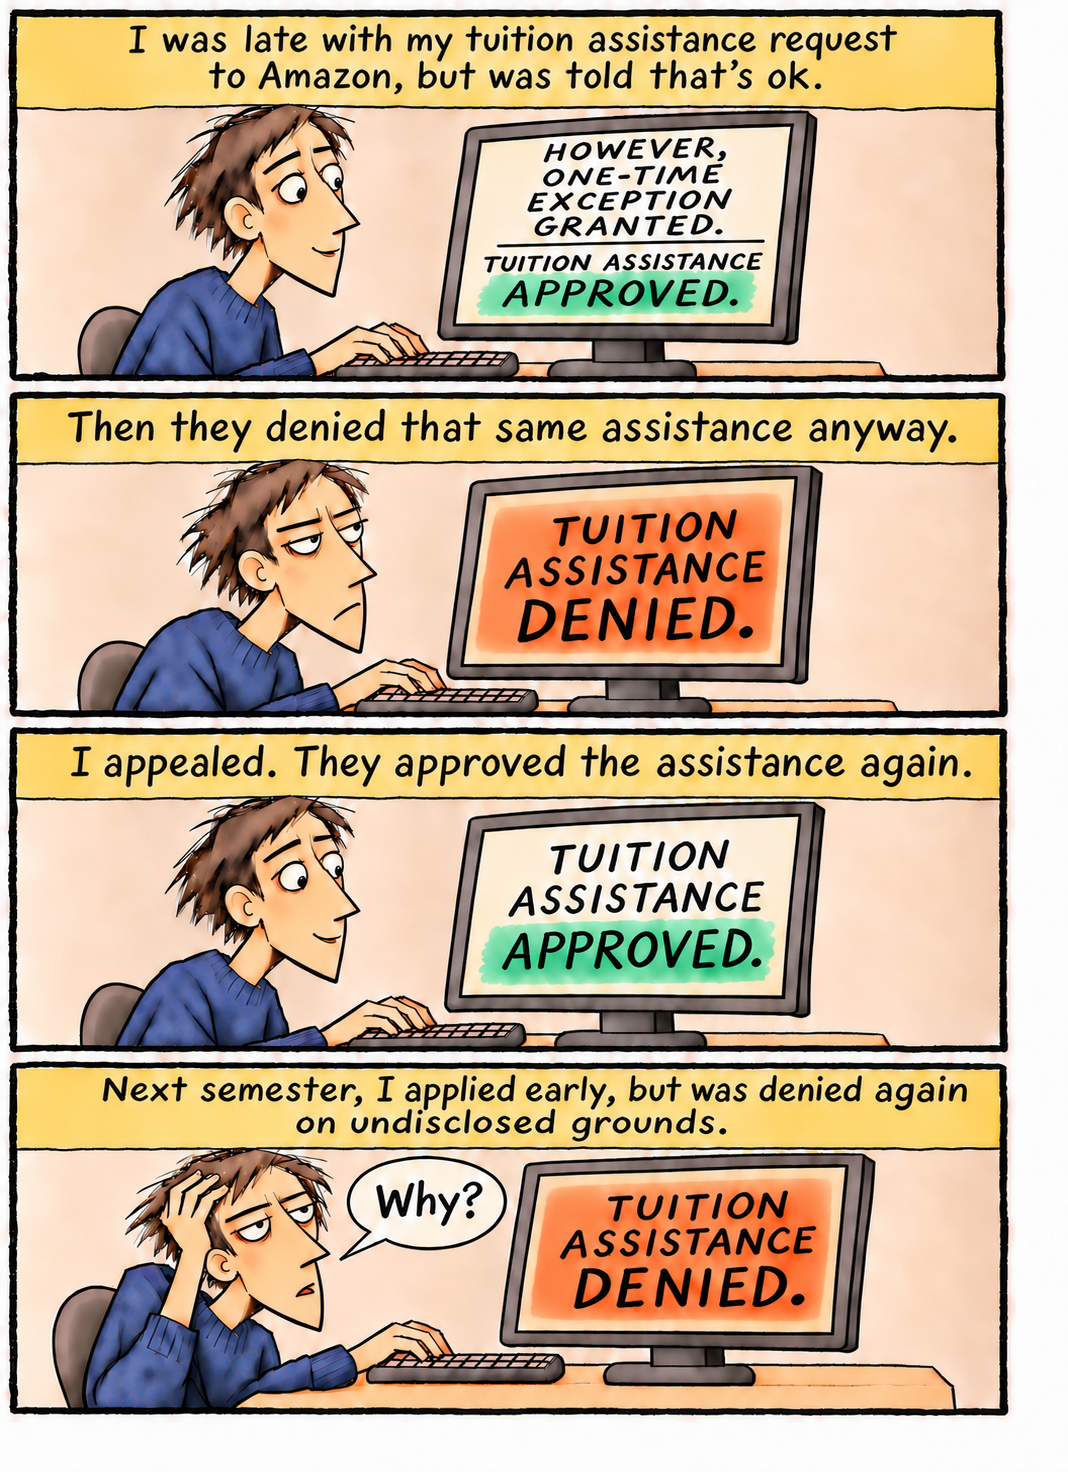
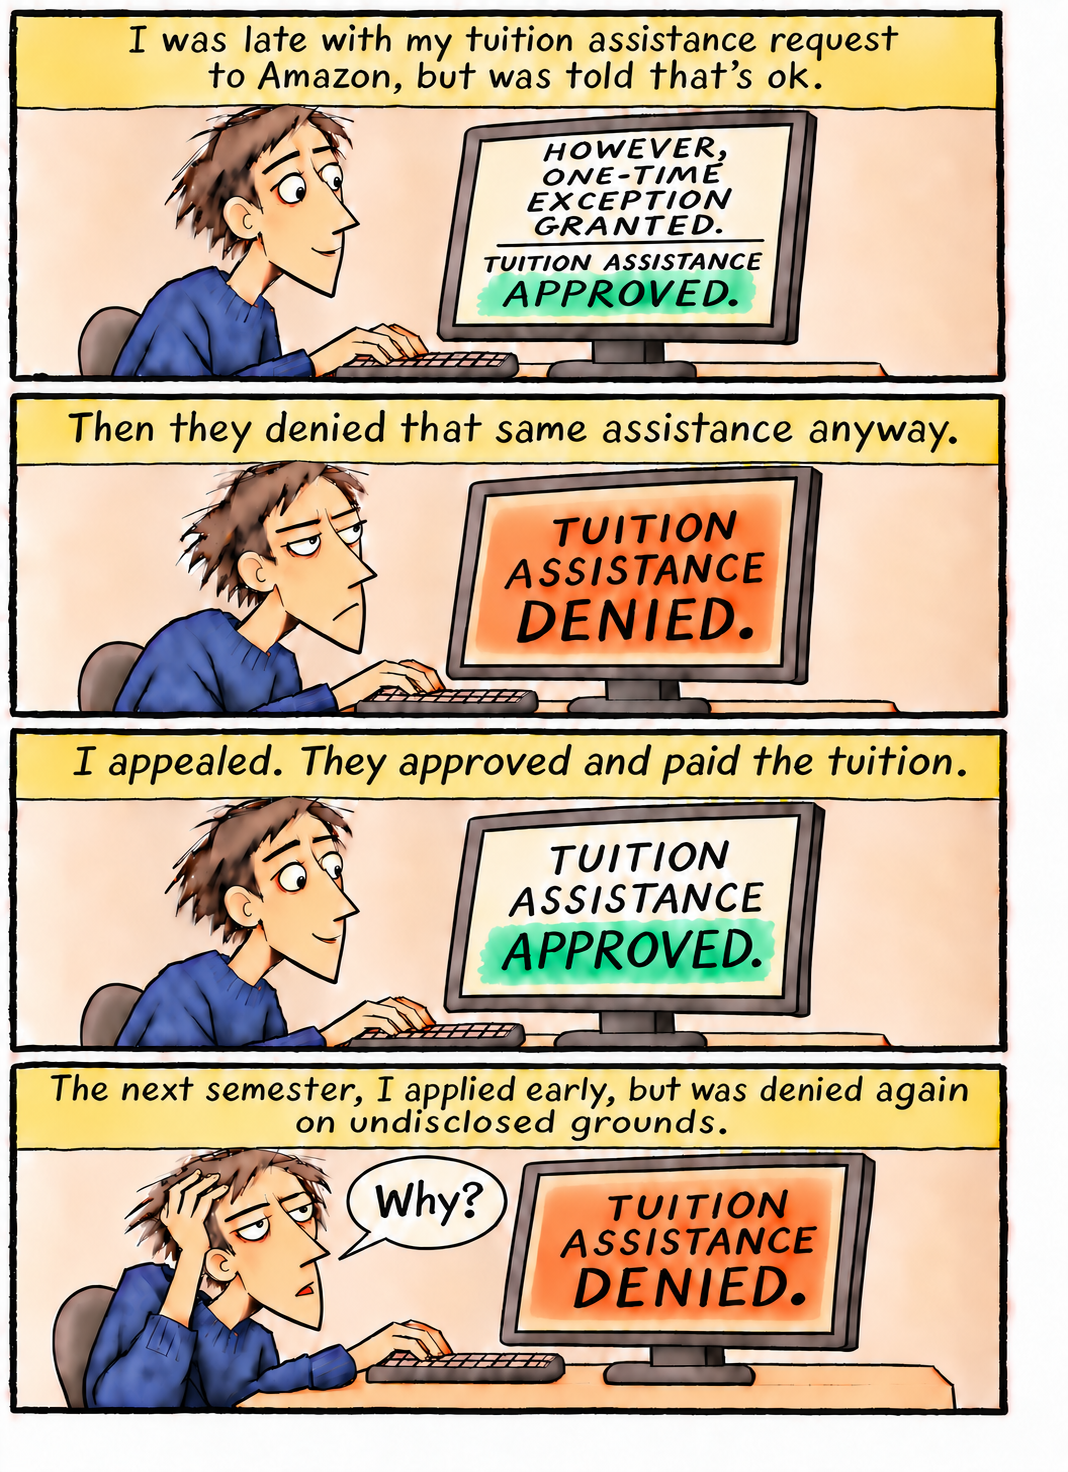
Update Amazon tuition comic artwork

diff --git a/comics/amazon-tuition-assistance/index.html b/comics/amazon-tuition-assistance/index.html
@@ -10,7 +10,7 @@
     <meta property="og:site_name" content="Stealing Art Jobs" />
     <meta property="og:title" content="Please Do Not Work for or Buy from Amazon — A Message from Their Employee — Stealing Art Jobs" />
     <meta property="og:description" content="A four-panel comic about a hardworking Amazon warehouse employee whose tuition assistance is repeatedly approved and denied while he tries to become a nurse in Georgia." />
-    <meta property="og:image" content="https://stealingartjobs.com/comics/amazon-tuition-assistance.png?v=1" />
+    <meta property="og:image" content="https://stealingartjobs.com/comics/amazon-tuition-assistance.png?v=2" />
     <meta property="og:url" content="https://stealingartjobs.com/comics/amazon-tuition-assistance/" />
     <link rel="canonical" href="https://stealingartjobs.com/comics/amazon-tuition-assistance/" />
     <title>Please Do Not Work for or Buy from Amazon — A Message from Their Employee — Stealing Art Jobs</title>
@@ -19,7 +19,7 @@
     <link href="https://fonts.googleapis.com/css2?family=DM+Mono:wght@400;500&family=Manrope:wght@500;600;700;800&display=swap" rel="stylesheet" />
     <link rel="stylesheet" href="/styles.css?v=21" />
     <script type="application/ld+json">{"@context":"https://schema.org","@type":"WebSite","name":"Stealing Art Jobs","url":"https://stealingartjobs.com/","description":"An independent webcomic about art, work, technology, and strange incentives."}</script>
-    <script type="application/ld+json">{"@context": "https://schema.org", "@type": "CreativeWork", "name": "Please Do Not Work for or Buy from Amazon — A Message from Their Employee", "description": "A four-panel comic about a hardworking Amazon warehouse employee whose tuition assistance is repeatedly approved and denied while he tries to become a nurse in Georgia.", "datePublished": "2026-11-25", "image": "https://stealingartjobs.com/comics/amazon-tuition-assistance.png?v=1", "url": "https://stealingartjobs.com/comics/amazon-tuition-assistance/", "isPartOf": {"@type": "WebSite", "name": "Stealing Art Jobs", "url": "https://stealingartjobs.com/"}}</script>
+    <script type="application/ld+json">{"@context": "https://schema.org", "@type": "CreativeWork", "name": "Please Do Not Work for or Buy from Amazon — A Message from Their Employee", "description": "A four-panel comic about a hardworking Amazon warehouse employee whose tuition assistance is repeatedly approved and denied while he tries to become a nurse in Georgia.", "datePublished": "2026-11-25", "image": "https://stealingartjobs.com/comics/amazon-tuition-assistance.png?v=2", "url": "https://stealingartjobs.com/comics/amazon-tuition-assistance/", "isPartOf": {"@type": "WebSite", "name": "Stealing Art Jobs", "url": "https://stealingartjobs.com/"}}</script>
   </head>
   <body>
     <header class="site-header">
@@ -80,7 +80,7 @@
 
         <figure class="comic-frame" id="comic-frame">
           <button class="comic-arrow comic-arrow-previous" id="comic-previous" type="button" aria-label="Previous comic"><span aria-hidden="true">&lt;</span></button>
-          <img id="comic-image" src="/comics/amazon-tuition-assistance.png?v=1" alt="Four-panel comic showing an Amazon employee repeatedly receiving conflicting approvals and denials for tuition assistance." />
+          <img id="comic-image" src="/comics/amazon-tuition-assistance.png?v=2" alt="Four-panel comic showing an Amazon employee repeatedly receiving conflicting approvals and denials for tuition assistance." />
           <button class="comic-arrow comic-arrow-next" id="comic-next" type="button" aria-label="Next comic" disabled><span aria-hidden="true">&gt;</span></button>
         </figure>
 
@@ -99,8 +99,8 @@
           <div class="comic-transcript-copy" id="comic-transcript-copy">
             <p>Panel 1: The employee sits at a computer. The heading reads, ‘I was late with my tuition assistance request to Amazon, but was told that&#x27;s ok.’ His monitor says, ‘However, one-time exception granted. Tuition assistance approved.’</p>
             <p>Panel 2: The heading reads, ‘Then they denied that same assistance anyway.’ His monitor says, ‘Tuition assistance denied.’</p>
-            <p>Panel 3: The heading reads, ‘I appealed. They approved the assistance again.’ His monitor says, ‘Tuition assistance approved.’</p>
-            <p>Panel 4: The heading reads, ‘Next semester, I applied early, but was denied again on undisclosed grounds.’ Holding his head, he asks, ‘Why?’ His monitor says, ‘Tuition assistance denied.’</p>
+            <p>Panel 3: The heading reads, ‘I appealed. They approved and paid the tuition.’ His monitor says, ‘Tuition assistance approved.’</p>
+            <p>Panel 4: The heading reads, ‘The next semester, I applied early, but was denied again on undisclosed grounds.’ Holding his head, he asks, ‘Why?’ His monitor says, ‘Tuition assistance denied.’</p>
           </div>
         </details>
       </section>

diff --git a/index.html b/index.html
@@ -10,7 +10,7 @@
     <meta property="og:site_name" content="Stealing Art Jobs" />
     <meta property="og:title" content="Stealing Art Jobs" />
     <meta property="og:description" content="An independent webcomic about art, work, technology, and strange incentives." />
-    <meta property="og:image" content="https://stealingartjobs.com/comics/amazon-tuition-assistance.png?v=1" />
+    <meta property="og:image" content="https://stealingartjobs.com/comics/amazon-tuition-assistance.png?v=2" />
     <meta property="og:url" content="https://stealingartjobs.com/" />
     <link rel="canonical" href="https://stealingartjobs.com/" />
     <title>Stealing Art Jobs — Independent Webcomic</title>
@@ -79,7 +79,7 @@
 
         <figure class="comic-frame" id="comic-frame">
           <button class="comic-arrow comic-arrow-previous" id="comic-previous" type="button" aria-label="Previous comic"><span aria-hidden="true">&lt;</span></button>
-          <img id="comic-image" src="/comics/amazon-tuition-assistance.png?v=1" alt="Four-panel comic showing an Amazon employee repeatedly receiving conflicting approvals and denials for tuition assistance." />
+          <img id="comic-image" src="/comics/amazon-tuition-assistance.png?v=2" alt="Four-panel comic showing an Amazon employee repeatedly receiving conflicting approvals and denials for tuition assistance." />
           <button class="comic-arrow comic-arrow-next" id="comic-next" type="button" aria-label="Next comic" disabled><span aria-hidden="true">&gt;</span></button>
         </figure>
 
@@ -98,8 +98,8 @@
           <div class="comic-transcript-copy" id="comic-transcript-copy">
             <p>Panel 1: The employee sits at a computer. The heading reads, ‘I was late with my tuition assistance request to Amazon, but was told that&#x27;s ok.’ His monitor says, ‘However, one-time exception granted. Tuition assistance approved.’</p>
             <p>Panel 2: The heading reads, ‘Then they denied that same assistance anyway.’ His monitor says, ‘Tuition assistance denied.’</p>
-            <p>Panel 3: The heading reads, ‘I appealed. They approved the assistance again.’ His monitor says, ‘Tuition assistance approved.’</p>
-            <p>Panel 4: The heading reads, ‘Next semester, I applied early, but was denied again on undisclosed grounds.’ Holding his head, he asks, ‘Why?’ His monitor says, ‘Tuition assistance denied.’</p>
+            <p>Panel 3: The heading reads, ‘I appealed. They approved and paid the tuition.’ His monitor says, ‘Tuition assistance approved.’</p>
+            <p>Panel 4: The heading reads, ‘The next semester, I applied early, but was denied again on undisclosed grounds.’ Holding his head, he asks, ‘Why?’ His monitor says, ‘Tuition assistance denied.’</p>
           </div>
         </details>
       </section>
